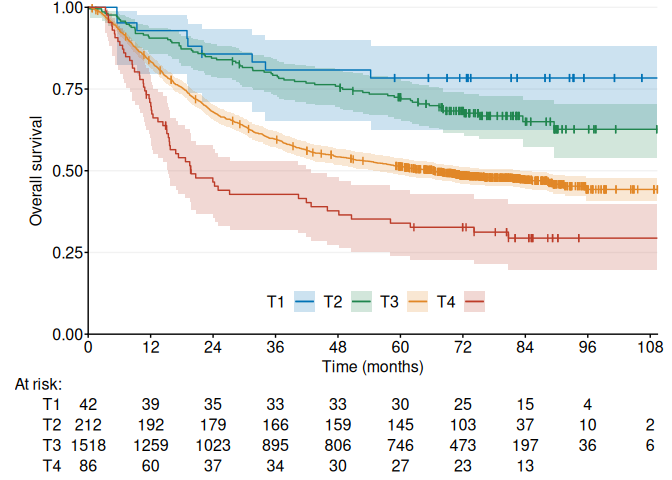
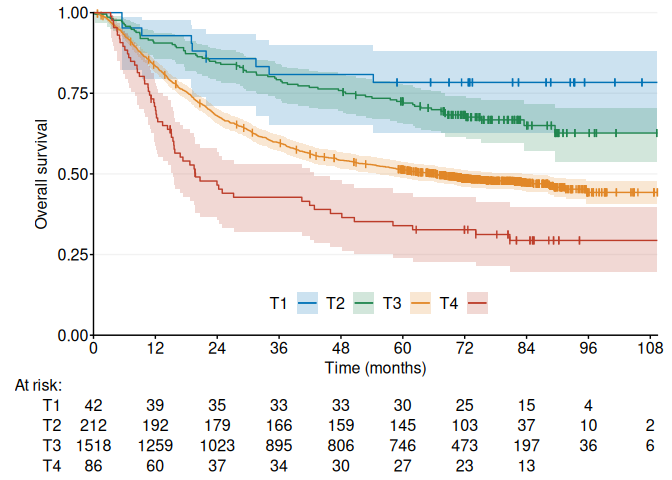
v0.12.1

diff --git a/docs/index.html b/docs/index.html
@@ -22,7 +22,7 @@
 
     <a class="navbar-brand me-2" href="index.html">ggKaplanMeier</a>
 
-    <small class="nav-text text-muted me-auto" data-bs-toggle="tooltip" data-bs-placement="bottom" title="">0.12.0</small>
+    <small class="nav-text text-muted me-auto" data-bs-toggle="tooltip" data-bs-placement="bottom" title="">0.12.1</small>
 
 
     <button class="navbar-toggler" type="button" data-bs-toggle="collapse" data-bs-target="#navbar" aria-controls="navbar" aria-expanded="false" aria-label="Toggle navigation">
@@ -84,7 +84,7 @@
 <div class="sourceCode" id="cb4"><pre class="downlit sourceCode r">
 <code class="sourceCode R"><span><span class="kw"><a href="https://rdrr.io/r/base/library.html" class="external-link">library</a></span><span class="op">(</span><span class="va"><a href="https://github.com/hongconsulting/ggKaplanMeier" class="external-link">ggKaplanMeier</a></span><span class="op">)</span></span>
 <span><span class="va">data</span> <span class="op">&lt;-</span> <span class="fu">survival</span><span class="fu">::</span><span class="va"><a href="https://rdrr.io/pkg/survival/man/colon.html" class="external-link">colon</a></span></span>
-<span><span class="va">fig1</span> <span class="op">&lt;-</span> <span class="fu"><a href="reference/ggKM.html">ggKM</a></span><span class="op">(</span><span class="va">data</span><span class="op">$</span><span class="va">time</span> <span class="op">*</span> <span class="fl">12</span> <span class="op">/</span> <span class="fl">365.2425</span>, <span class="va">data</span><span class="op">$</span><span class="va">status</span>, <span class="va">data</span><span class="op">$</span><span class="va">extent</span>, colors <span class="op">=</span> <span class="fu">ggsci</span><span class="fu">::</span><span class="fu"><a href="https://nanx.me/ggsci/reference/pal_nejm.html" class="external-link">pal_nejm</a></span><span class="op">(</span><span class="op">)</span><span class="op">(</span><span class="fl">4</span><span class="op">)</span><span class="op">[</span><span class="fu"><a href="https://rdrr.io/r/base/c.html" class="external-link">c</a></span><span class="op">(</span><span class="fl">2</span>, <span class="fl">4</span>, <span class="fl">3</span>, <span class="fl">1</span><span class="op">)</span><span class="op">]</span>, legend.direction <span class="op">=</span> <span class="st">"horizontal"</span>, legend.labels <span class="op">=</span> <span class="fu"><a href="https://rdrr.io/r/base/c.html" class="external-link">c</a></span><span class="op">(</span><span class="st">"T1"</span>, <span class="st">"T2"</span>, <span class="st">"T3"</span>, <span class="st">"T4"</span><span class="op">)</span>, legend.pos <span class="op">=</span> <span class="fu"><a href="https://rdrr.io/r/base/c.html" class="external-link">c</a></span><span class="op">(</span><span class="fl">0.5</span>, <span class="fl">0.1</span><span class="op">)</span>, risk.table.margin <span class="op">=</span> <span class="fl">20</span>, title.s <span class="op">=</span> <span class="st">"Overall survival"</span>, title.t <span class="op">=</span> <span class="st">"Time (months)"</span><span class="op">)</span></span>
+<span><span class="va">fig1</span> <span class="op">&lt;-</span> <span class="fu"><a href="reference/ggKM.html">ggKM</a></span><span class="op">(</span><span class="va">data</span><span class="op">$</span><span class="va">time</span> <span class="op">*</span> <span class="fl">12</span> <span class="op">/</span> <span class="fl">365.2425</span>, <span class="va">data</span><span class="op">$</span><span class="va">status</span>, <span class="va">data</span><span class="op">$</span><span class="va">extent</span>, colors <span class="op">=</span> <span class="fu">ggsci</span><span class="fu">::</span><span class="fu"><a href="https://nanx.me/ggsci/reference/pal_nejm.html" class="external-link">pal_nejm</a></span><span class="op">(</span><span class="op">)</span><span class="op">(</span><span class="fl">4</span><span class="op">)</span><span class="op">[</span><span class="fu"><a href="https://rdrr.io/r/base/c.html" class="external-link">c</a></span><span class="op">(</span><span class="fl">2</span>, <span class="fl">4</span>, <span class="fl">3</span>, <span class="fl">1</span><span class="op">)</span><span class="op">]</span>, legend.direction <span class="op">=</span> <span class="st">"horizontal"</span>, legend.labels <span class="op">=</span> <span class="fu"><a href="https://rdrr.io/r/base/c.html" class="external-link">c</a></span><span class="op">(</span><span class="st">"T1"</span>, <span class="st">"T2"</span>, <span class="st">"T3"</span>, <span class="st">"T4"</span><span class="op">)</span>, legend.pos <span class="op">=</span> <span class="fu"><a href="https://rdrr.io/r/base/c.html" class="external-link">c</a></span><span class="op">(</span><span class="fl">0.5</span>, <span class="fl">0.1</span><span class="op">)</span>, margin.risk <span class="op">=</span> <span class="fl">24</span>, title.s <span class="op">=</span> <span class="st">"Overall survival"</span>, title.t <span class="op">=</span> <span class="st">"Time (months)"</span><span class="op">)</span></span>
 <span><span class="fu"><a href="https://rdrr.io/r/base/print.html" class="external-link">print</a></span><span class="op">(</span><span class="va">fig1</span><span class="op">)</span></span></code></pre></div>
 <p><img src="reference/figures/README-example_2-1.png"><!-- --></p>
 </div>

diff --git a/docs/reference/ggKM.html b/docs/reference/ggKM.html
@@ -9,7 +9,7 @@ table."></head><body>
 
     <a class="navbar-brand me-2" href="../index.html">ggKaplanMeier</a>
 
-    <small class="nav-text text-muted me-auto" data-bs-toggle="tooltip" data-bs-placement="bottom" title="">0.12.0</small>
+    <small class="nav-text text-muted me-auto" data-bs-toggle="tooltip" data-bs-placement="bottom" title="">0.12.1</small>
 
 
     <button class="navbar-toggler" type="button" data-bs-toggle="collapse" data-bs-target="#navbar" aria-controls="navbar" aria-expanded="false" aria-label="Toggle navigation">
@@ -65,12 +65,12 @@ table.</p>
 <span>  margin.KM.b <span class="op">=</span> <span class="fl">0</span>,</span>
 <span>  margin.KM.l <span class="op">=</span> <span class="fl">0</span>,</span>
 <span>  margin.KM.r <span class="op">=</span> <span class="fl">0</span>,</span>
-<span>  margin.KM.t <span class="op">=</span> <span class="fl">0</span>,</span>
+<span>  margin.KM.t <span class="op">=</span> <span class="fl">4</span>,</span>
+<span>  margin.risk <span class="op">=</span> <span class="fl">16</span>,</span>
 <span>  line.width <span class="op">=</span> <span class="fl">0.5</span>,</span>
 <span>  line.height <span class="op">=</span> <span class="fl">0.025</span>,</span>
 <span>  max.t <span class="op">=</span> <span class="cn">NULL</span>,</span>
 <span>  risk.table <span class="op">=</span> <span class="cn">TRUE</span>,</span>
-<span>  risk.table.margin <span class="op">=</span> <span class="fl">16</span>,</span>
 <span>  risk.table.prop <span class="op">=</span> <span class="fl">0.2</span>,</span>
 <span>  textsize.axis <span class="op">=</span> <span class="fl">12</span>,</span>
 <span>  textsize.legend <span class="op">=</span> <span class="fl">12</span>,</span>
@@ -214,7 +214,12 @@ right margin in points. Default = <code>0</code>.</p></dd>
 
 <dt id="arg-margin-km-t">margin.KM.t<a class="anchor" aria-label="anchor" href="#arg-margin-km-t"></a></dt>
 <dd><p>Numeric value specifying the size of the Kaplan–Meier plot
-top margin in points. Default = <code>0</code>.</p></dd>
+top margin in points. Default = <code>4</code>.</p></dd>
+
+
+<dt id="arg-margin-risk">margin.risk<a class="anchor" aria-label="anchor" href="#arg-margin-risk"></a></dt>
+<dd><p>Numeric value specifying the horizontal spacing between
+the risk table labels and the risk table. Default = <code>16</code>.</p></dd>
 
 
 <dt id="arg-line-width">line.width<a class="anchor" aria-label="anchor" href="#arg-line-width"></a></dt>
@@ -232,11 +237,6 @@ the Kaplan–Meier plot and risk table are displayed.</p></dd>
 
 <dt id="arg-risk-table">risk.table<a class="anchor" aria-label="anchor" href="#arg-risk-table"></a></dt>
 <dd><p>Logical; if <code>TRUE</code>, show risk table. Default = <code>TRUE</code>.</p></dd>
-
-
-<dt id="arg-risk-table-margin">risk.table.margin<a class="anchor" aria-label="anchor" href="#arg-risk-table-margin"></a></dt>
-<dd><p>Numeric value specifying the horizontal spacing
-between the risk table labels and the risk table. Default = <code>16</code>.</p></dd>
 
 
 <dt id="arg-risk-table-prop">risk.table.prop<a class="anchor" aria-label="anchor" href="#arg-risk-table-prop"></a></dt>

diff --git a/docs/authors.html b/docs/authors.html
@@ -7,7 +7,7 @@
 
     <a class="navbar-brand me-2" href="index.html">ggKaplanMeier</a>
 
-    <small class="nav-text text-muted me-auto" data-bs-toggle="tooltip" data-bs-placement="bottom" title="">0.12.0</small>
+    <small class="nav-text text-muted me-auto" data-bs-toggle="tooltip" data-bs-placement="bottom" title="">0.12.1</small>
 
 
     <button class="navbar-toggler" type="button" data-bs-toggle="collapse" data-bs-target="#navbar" aria-controls="navbar" aria-expanded="false" aria-label="Toggle navigation">
@@ -45,13 +45,13 @@
 
       <p>Hong W (2025).
 <em>ggKaplanMeier: Kaplan-Meier plots</em>.
-R package version 0.12.0, <a href="https://github.com/hongconsulting/ggKaplanMeier" class="external-link">https://github.com/hongconsulting/ggKaplanMeier</a>.
+R package version 0.12.1, <a href="https://github.com/hongconsulting/ggKaplanMeier" class="external-link">https://github.com/hongconsulting/ggKaplanMeier</a>.
 </p>
       <pre>@Manual{,
   title = {ggKaplanMeier: Kaplan-Meier plots},
   author = {Wei Hong},
   year = {2025},
-  note = {R package version 0.12.0},
+  note = {R package version 0.12.1},
   url = {https://github.com/hongconsulting/ggKaplanMeier},
 }</pre>
     </div>

diff --git a/docs/404.html b/docs/404.html
@@ -20,7 +20,7 @@
 
     <a class="navbar-brand me-2" href="https://hongconsulting.github.io/ggKaplanMeier/index.html">ggKaplanMeier</a>
 
-    <small class="nav-text text-muted me-auto" data-bs-toggle="tooltip" data-bs-placement="bottom" title="">0.12.0</small>
+    <small class="nav-text text-muted me-auto" data-bs-toggle="tooltip" data-bs-placement="bottom" title="">0.12.1</small>
 
 
     <button class="navbar-toggler" type="button" data-bs-toggle="collapse" data-bs-target="#navbar" aria-controls="navbar" aria-expanded="false" aria-label="Toggle navigation">

diff --git a/docs/reference/index.html b/docs/reference/index.html
@@ -7,7 +7,7 @@
 
     <a class="navbar-brand me-2" href="../index.html">ggKaplanMeier</a>
 
-    <small class="nav-text text-muted me-auto" data-bs-toggle="tooltip" data-bs-placement="bottom" title="">0.12.0</small>
+    <small class="nav-text text-muted me-auto" data-bs-toggle="tooltip" data-bs-placement="bottom" title="">0.12.1</small>
 
 
     <button class="navbar-toggler" type="button" data-bs-toggle="collapse" data-bs-target="#navbar" aria-controls="navbar" aria-expanded="false" aria-label="Toggle navigation">

diff --git a/docs/LICENSE.html b/docs/LICENSE.html
@@ -7,7 +7,7 @@
 
     <a class="navbar-brand me-2" href="index.html">ggKaplanMeier</a>
 
-    <small class="nav-text text-muted me-auto" data-bs-toggle="tooltip" data-bs-placement="bottom" title="">0.12.0</small>
+    <small class="nav-text text-muted me-auto" data-bs-toggle="tooltip" data-bs-placement="bottom" title="">0.12.1</small>
 
 
     <button class="navbar-toggler" type="button" data-bs-toggle="collapse" data-bs-target="#navbar" aria-controls="navbar" aria-expanded="false" aria-label="Toggle navigation">

diff --git a/README.md b/README.md
@@ -54,7 +54,7 @@ print(fig1b)
 ``` r
 library(ggKaplanMeier)
 data <- survival::colon
-fig1 <- ggKM(data$time * 12 / 365.2425, data$status, data$extent, colors = ggsci::pal_nejm()(4)[c(2, 4, 3, 1)], legend.direction = "horizontal", legend.labels = c("T1", "T2", "T3", "T4"), legend.pos = c(0.5, 0.1), risk.table.margin = 20, title.s = "Overall survival", title.t = "Time (months)")
+fig1 <- ggKM(data$time * 12 / 365.2425, data$status, data$extent, colors = ggsci::pal_nejm()(4)[c(2, 4, 3, 1)], legend.direction = "horizontal", legend.labels = c("T1", "T2", "T3", "T4"), legend.pos = c(0.5, 0.1), margin.risk = 24, title.s = "Overall survival", title.t = "Time (months)")
 print(fig1)
 ```
 
